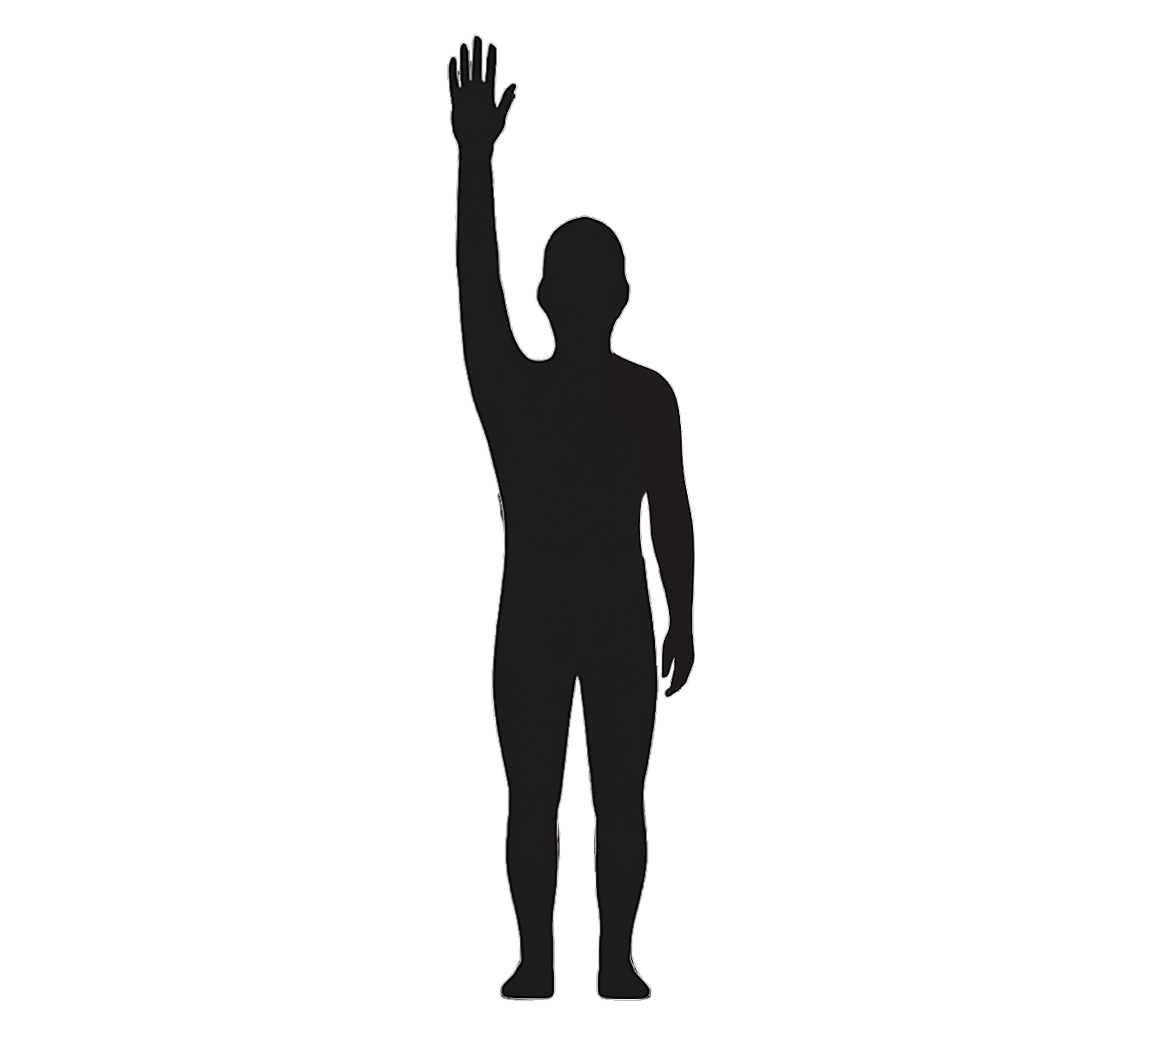
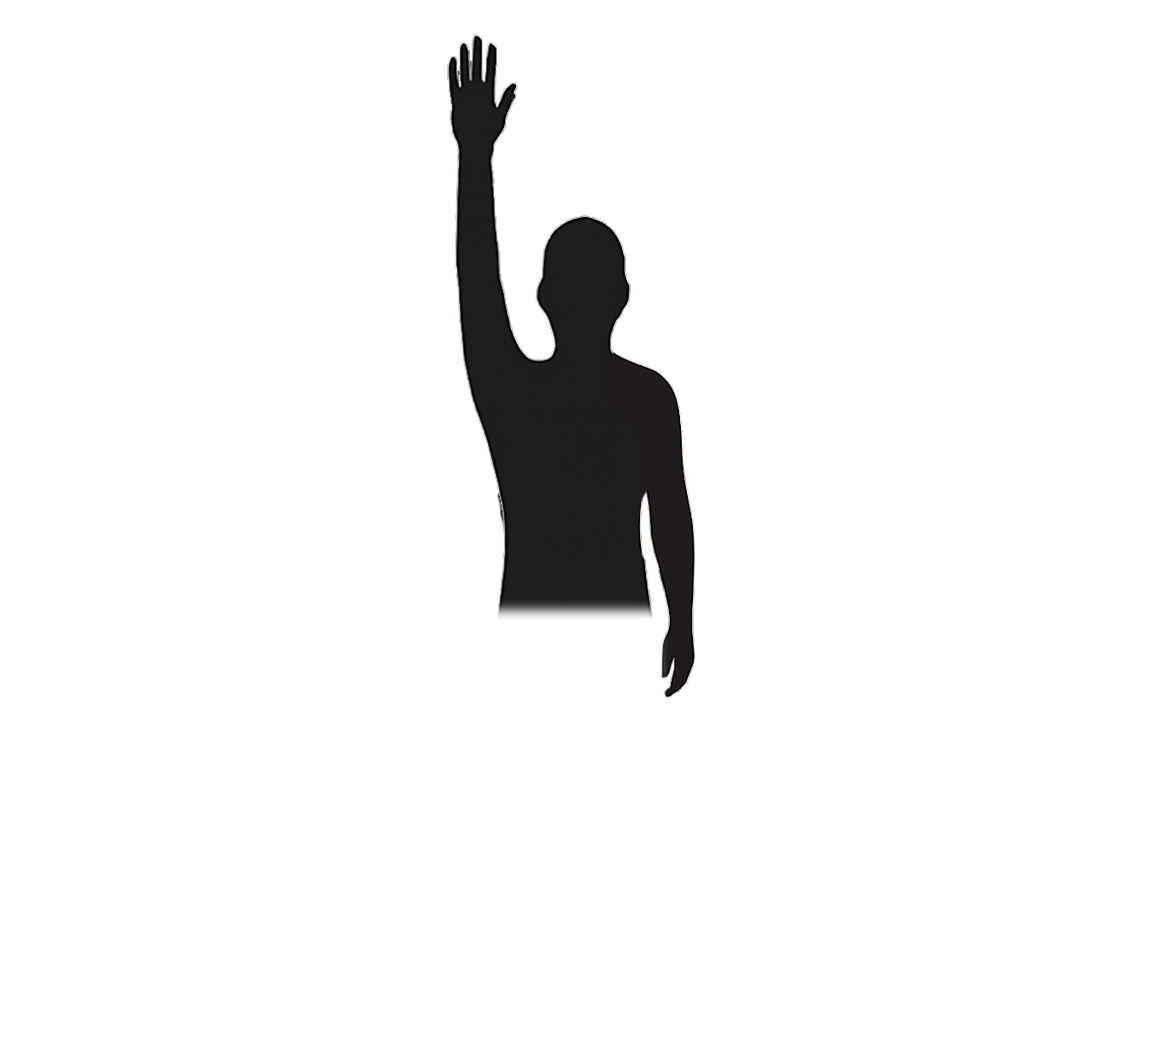
fixed rom-root-return bug, added locks for precalibration stages

Changed region(s): [[0.4055, 0.5523, 0.5927, 0.9818]]

diff --git a/src/pages/Home.tsx b/src/pages/Home.tsx
@@ -1,8 +1,10 @@
 import { useRef } from 'react';
 import { encodeBase64 } from '../utils/encoder';
 import { go } from '../utils/navigation';
+import { useConfig } from '../utils/context';
 
 const Home = () => {
+  const { config } = useConfig();
   const fileRef = useRef<HTMLInputElement | null>(null);
 
   const openFile = () => fileRef.current?.click();
@@ -19,6 +21,11 @@ const Home = () => {
     go(`#/study?participantId=${participantId}&data=${encoded}`);
   };
 
+  const isCameraCalibrated = config.silParams.silCalibrated;
+  const isROMCalibrated = config.romCalibrationParams !== null;
+
+  console.log(isCameraCalibrated, isROMCalibrated);
+
   return (
     <div className="w-screen h-screen flex items-center justify-center select-none">
       <div className="w-[360px] md:w-[420px] bg-white rounded-2xl shadow border border-gray-200 p-6 flex flex-col items-center gap-6">
@@ -28,11 +35,29 @@ const Home = () => {
         </h1>
 
         <div className="w-full flex flex-col gap-3">
-          <button onClick={openFile} className="w-full px-4 py-3 rounded-lg bg-gray-200 text-gray-900 font-bold hover:bg-gray-800 hover:text-white cursor-pointer">
+          <button
+            disabled={!isCameraCalibrated || !isROMCalibrated}
+            onClick={openFile}
+            className={
+              `w-full px-4 py-3 rounded-lg text-gray-900` +
+              (!isCameraCalibrated || !isROMCalibrated
+                ? ' opacity-50 cursor-not-allowed hover:bg-gray-200 hover:text-gray-900 bg-gray-200'
+                : ' hover:bg-gray-800 hover:text-white cursor-pointer bg-white border border-gray-300')
+            }
+          >
             Start Study
           </button>
 
-          <button onClick={() => go('#/create-study-tasks')} className="w-full px-4 py-3 rounded-lg bg-white border border-gray-300 text-gray-900 hover:bg-gray-100 cursor-pointer">
+          <button
+            disabled={!isCameraCalibrated || !isROMCalibrated}
+            onClick={() => go('#/create-study-tasks')}
+            className={
+              `w-full px-4 py-3 rounded-lg text-gray-900` +
+              (!isCameraCalibrated || !isROMCalibrated
+                ? ' opacity-50 cursor-not-allowed hover:bg-gray-200 hover:text-gray-900 bg-gray-200'
+                : ' hover:bg-gray-800 hover:text-white cursor-pointer bg-white border border-gray-300')
+            }
+          >
             Create Tasks
           </button>
 
@@ -50,7 +75,16 @@ const Home = () => {
             Calibrate Camera
           </button>
 
-          <button onClick={() => go('#/rom-calibration')} className="w-full px-4 py-3 rounded-lg bg-white border border-gray-300 text-gray-900 hover:bg-gray-100 cursor-pointer">
+          <button
+            disabled={!isCameraCalibrated}
+            onClick={() => go('#/rom-calibration')}
+            className={
+              `w-full px-4 py-3 rounded-lg text-gray-900` +
+              (!isCameraCalibrated
+                ? ' opacity-50 cursor-not-allowed hover:bg-gray-200 hover:text-gray-900 bg-gray-200'
+                : ' hover:bg-gray-800 hover:text-white cursor-pointer bg-white border border-gray-300')
+            }
+          >
             Calibrate ROM
           </button>
 
@@ -64,6 +98,8 @@ const Home = () => {
             Settings
           </button>
         </div>
+        {!isCameraCalibrated && <span className="text-sm text-gray-400 text-center">Please calibrate the camera to proceed</span>}
+        {!isROMCalibrated && isCameraCalibrated && <span className="text-sm text-gray-400 text-center">Please calibrate the ROM to proceed</span>}
 
         <input ref={fileRef} type="file" accept=".json,application/json" onChange={onFileChange} className="hidden" />
       </div>

diff --git a/src/pages/RomCalibration.tsx b/src/pages/RomCalibration.tsx
@@ -7,7 +7,7 @@ import { defaultConfig, MM_TO_INCH, NOSE_Y_OFFSET, SHOULDER_X_OFFSET, SHOULDER_Y
 import type { PolarPos, Pos } from '../types/task';
 import { useConfig } from '../utils/context';
 import useDetection from '../hooks/useMediaPipeHandDetection';
-import { go } from '../utils/navigation';
+import { forceRoot } from '../utils/navigation';
 import { cartesianToPolar, polarToCartesian } from '../utils/math';
 import MediaPlayer from '../components/MediaPlayer';
 
@@ -251,11 +251,6 @@ const sketch: Sketch = (p5) => {
       drawRomCircles();
     }
 
-    if (calibrationStage === 'preinit') {
-      drawSilhouette();
-      drawRomCircles();
-    }
-
     drawUserPinch();
   };
 };
@@ -266,6 +261,8 @@ const RomCalibration = () => {
   const factor = devicePPI / devicePixelRatio;
   const testbedWidth = testbedWidthMM * MM_TO_INCH * factor;
   const testbedHeight = testbedHeightMM * MM_TO_INCH * factor;
+
+  const [areWeDone, setAreWeDone] = useState(false);
 
   const [isTutorialVisible, setIsTutorialVisible] = useState(true);
 
@@ -415,24 +412,26 @@ const RomCalibration = () => {
           {videoRef !== null && !loading && !error && (
             <video ref={videoRef} muted playsInline className="absolute inset-0 w-full h-full object-cover" style={{ transform: 'scaleX(-1)' }} />
           )}
-          <div className="absolute inset-0">
-            <ReactP5Wrapper
-              sketch={sketch}
-              pinchPos={pinchPos}
-              frameWidth={testbedWidth}
-              frameHeight={testbedHeight}
-              headShoulderDetection={headShoulderDetection}
-              silParams={silParams}
-              isCalibrated={isCalibrated}
-              calibrationStage={calibrationStage}
-              leftStretchedRom={leftStretchedRom}
-              leftRaisedRom={leftRaisedRom}
-              rightStretchedRom={rightStretchedRom}
-              rightRaisedRom={rightRaisedRom}
-              romCalibrationParams={romCalibrationParams}
-              romSafeMargin={romSafeMargin}
-            />
-          </div>
+          {!areWeDone && (
+            <div className="absolute inset-0">
+              <ReactP5Wrapper
+                sketch={sketch}
+                pinchPos={pinchPos}
+                frameWidth={testbedWidth}
+                frameHeight={testbedHeight}
+                headShoulderDetection={headShoulderDetection}
+                silParams={silParams}
+                isCalibrated={isCalibrated}
+                calibrationStage={calibrationStage}
+                leftStretchedRom={leftStretchedRom}
+                leftRaisedRom={leftRaisedRom}
+                rightStretchedRom={rightStretchedRom}
+                rightRaisedRom={rightRaisedRom}
+                romCalibrationParams={romCalibrationParams}
+                romSafeMargin={romSafeMargin}
+              />
+            </div>
+          )}
         </div>
       </div>
 
@@ -469,7 +468,9 @@ const RomCalibration = () => {
           className="bg-gray-100 border border-gray-300 text-black font-bold px-4 py-2 rounded hover:bg-gray-800 hover:text-white cursor-pointer"
           onClick={() => {
             stopWebcam();
-            go('/home');
+            setAreWeDone(true);
+            // go('/');
+            forceRoot();
           }}
         >
           Done

diff --git a/src/pages/Config.tsx b/src/pages/Config.tsx
@@ -20,6 +20,8 @@ const Config = () => {
     setDefaultStartDuration,
     setMinVibrationThreshold,
     setMaxVibrationThreshold,
+    setSilParams,
+    setRomCalibrationParams,
     setRomSafeMargin
   } = useConfig();
 
@@ -44,6 +46,8 @@ const Config = () => {
       setDefaultHoldDuration(defaultConfig.defaultHoldDuration);
       setMinVibrationThreshold(defaultConfig.minVibrationThresholdMM);
       setMaxVibrationThreshold(defaultConfig.maxVibrationThresholdMM);
+      setSilParams(defaultConfig.silParams);
+      setRomCalibrationParams(defaultConfig.romCalibrationParams);
       setRomSafeMargin(defaultConfig.romSafeMargin);
     }
   };

diff --git a/src/utils/navigation.ts b/src/utils/navigation.ts
@@ -2,6 +2,10 @@ export const go = (hash: string) => {
   window.location.hash = hash;
 };
 
+export const forceRoot = () => {
+  window.location.href = window.location.origin + window.location.pathname;
+};
+
 export async function isValidMediaURL(url: string) {
   try {
     const res = await fetch(url, { method: "HEAD" });

diff --git a/src/utils/constants.ts b/src/utils/constants.ts
@@ -29,8 +29,8 @@ export const defaultConfig: Config = {
   calibrationTool: 'RULER',
   worldPPI: 24,
   markerDiameterMM: 5,
-  testbedWidthMM: 160,
-  testbedHeightMM: 100,
+  testbedWidthMM: 200,
+  testbedHeightMM: 140,
   defaultHand: 'Right',
   defaultTrials: 3,
   defaultRepetitions: 5,
